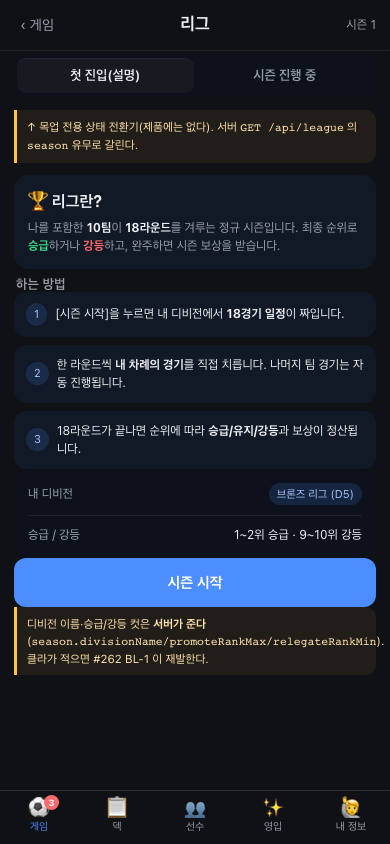
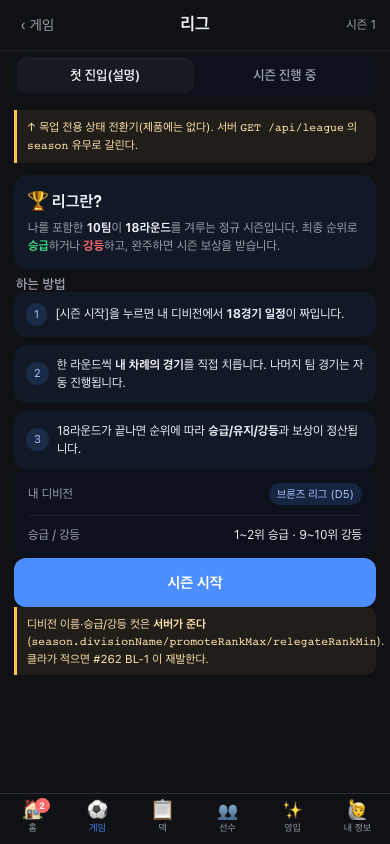
[Spider] docs(web): #286 W1 3차 — 홈을 별도 탭으로 분리 + 최대한 간결하게
hero 3차: "홈 별도로 빼야지 가장 중요하잖아. 홈화면에 게임이랑 다 널부러져있는거 이상해.
최대한 간결하게. 지금 너무 중구난방이야."

2차안의 홈은 팀 요약 + 오늘 할 일 + 경기 3카드를 한 화면에 다 넣어 "내 팀은 어떤가"와
"뭘 하러 갈까"가 섞여 있었다. 지적이 맞다.

- **내비 5탭 → 6탭**: 홈 · 게임 · 덱 · 선수 · 영입 · 내 정보.
- **홈(신설)** = 세 덩어리만 — ①내 팀 한 장(대표 카드 + 디비전/순위 · 레이팅/랭킹 · 포메이션/전력)
  ②[게임 시작] 큰 버튼 하나 ③알림 한 줄(**있을 때만**). 없으면 카드 한 장 + 버튼 하나로 끝난다.
- **게임 탭(신설)** = 모드 선택 전용. 현행 [게임 시작] 모달이 화면으로 승격되고, 홈에 널려 있던
  연습·리그·원정 카드가 통째로 이리 온다. 리그/원정 페이지의 부모.
- **덜어낸 것의 행선지를 표로 박제**했다(팀 요약→덱, 사기·컨디션→덱·내정보, 오늘 할 일→알림 한 줄).
  근거 없이 되돌리면 홈이 다시 대시보드가 된다.
- 경기 중 잠금 범위 갱신: 홈 전체 + **탭 5개 전부**.
- #245 피원정 팝업 트리거를 **게임 탭의 원정 카드**로 이관([게임 시작]은 이제 탭 이동일 뿐이라
  팝업을 걸 자리가 아니다).

⚠ 구현 중 확인(질문 아님): 탭이 6칸이고 admin 은 [운영] 포함 7칸이라 390px 에서 "내 정보"가
가장 빠듯하다. 실기기 캡처로 보고 좁으면 라벨 축약 후 보고한다.

게이트: apps/web build PASS. 제품 코드는 여전히 무변경.

Claude-Session: https://claude.ai/code/session_01YPxJHEMs28AV5xFHckaE2s

diff --git a/docs/plan-v5/mock/home-nav/after.html b/docs/plan-v5/mock/home-nav/after.html
@@ -147,6 +147,21 @@ table.tbl td.num{text-align:right;font-variant-numeric:tabular-nums}
 .pcard .dup{position:absolute;bottom:4px;right:5px;font-size:9px;background:rgba(0,0,0,.6);border-radius:5px;padding:0 4px;z-index:2}
 .g-LEGEND{color:#d0a5ff}.g-DIA{color:#7fd7ff}.g-GOLD{color:#ffcf6b}.g-SILVER{color:#c7cdd8}.g-BRONZE{color:#c99a76}
 
+/* ── 홈 히어로 (hero 3R: "최대한 간결하게") ────────────────────────────── */
+.homehero{position:relative;border-radius:18px;overflow:hidden;background:linear-gradient(160deg,#1b2740,#0e1420 70%);min-height:322px;display:flex;flex-direction:column;justify-content:flex-end}
+/* 대표 카드는 **통짜로 보이게** 둔다 — 잘리면 카드가 아니라 배경 얼룩으로 읽힌다. */
+.homehero .art{position:absolute;right:12px;top:14px;bottom:14px;width:44%;display:grid;place-items:center}
+.homehero .art img{max-height:100%;max-width:100%;object-fit:contain;border-radius:6px;filter:drop-shadow(0 10px 26px rgba(0,0,0,.65))}
+.homehero .veil{position:absolute;inset:0;background:linear-gradient(90deg,#0e1420 20%,rgba(14,20,32,.55) 46%,transparent 62%);pointer-events:none}
+.homehero .info{position:relative;padding:16px;max-width:56%}
+.homehero .team{font-size:19px;font-weight:800;line-height:1.2}
+.homehero .lines{margin-top:8px;display:flex;flex-direction:column;gap:3px}
+.homehero .lines div{font-size:11.5px;color:var(--muted);line-height:1.45}
+.homehero .lines b{color:var(--text)}
+.ctabig{display:block;width:100%;background:linear-gradient(90deg,#3f7dff,#5aa0ff);color:#fff;border-radius:16px;padding:19px;font-weight:800;font-size:18px;text-align:center;box-shadow:0 6px 20px rgba(76,141,255,.28)}
+.notifrow{display:flex;align-items:center;gap:9px;width:100%;background:var(--surface);border-radius:13px;padding:12px 13px;text-align:left}
+.notifrow .nb{width:22px;height:22px;border-radius:99px;background:var(--them);color:#fff;font-size:11px;font-weight:700;display:grid;place-items:center;flex:0 0 auto}
+
 /* ── 경기 중 잠금 (hero 2R) ────────────────────────────────────────────── */
 .lockwrap{position:relative}
 .lockwrap.locked{opacity:.32;filter:grayscale(.7);pointer-events:none;user-select:none}
@@ -195,12 +210,12 @@ table.tbl td.num{text-align:right;font-variant-numeric:tabular-nums}
 
 /* ── 하단 탭바 (5개) ───────────────────────────────────────────────────── */
 .tabbar{position:fixed;bottom:0;left:50%;transform:translateX(-50%);width:100%;max-width:390px;
-  display:grid;grid-template-columns:repeat(5,1fr);background:rgba(15,17,21,.96);
+  display:grid;grid-template-columns:repeat(6,1fr);background:rgba(15,17,21,.96);
   border-top:1px solid var(--border);backdrop-filter:blur(8px);z-index:15}
-.tabbar button{padding:7px 0 9px;display:flex;flex-direction:column;align-items:center;gap:2px;color:var(--muted);font-size:10.5px;position:relative}
-.tabbar button em{font-size:19px;font-style:normal;line-height:1}
+.tabbar button{padding:7px 0 9px;display:flex;flex-direction:column;align-items:center;gap:2px;color:var(--muted);font-size:9.5px;position:relative;white-space:nowrap}
+.tabbar button em{font-size:18px;font-style:normal;line-height:1}
 .tabbar button.on{color:var(--us)}
-.tabbar button i{position:absolute;top:4px;right:calc(50% - 20px);min-width:15px;height:15px;padding:0 3px;border-radius:99px;background:var(--them);color:#fff;font-size:9px;font-style:normal;display:grid;place-items:center;font-weight:700}
+.tabbar button i{position:absolute;top:4px;right:calc(50% - 17px);min-width:15px;height:15px;padding:0 3px;border-radius:99px;background:var(--them);color:#fff;font-size:9px;font-style:normal;display:grid;place-items:center;font-weight:700}
 
 /* 주석 말풍선 — 목업 위 설계 의도 표시(보드에서 토글) */
 .note{border-left:3px solid var(--warn);background:rgba(255,194,75,.08);border-radius:0 10px 10px 0;padding:8px 10px;font-size:11.5px;color:#ffe3ac}
@@ -210,7 +225,7 @@ body.nonotes .note{display:none}
 <body>
 <div class="app">
 
-<!-- ══════════════════════ 1. 게임 (홈) ══════════════════════ -->
+<!-- ══════════════════════ 1. 홈 ══════════════════════ -->
 <section class="screen" id="s-home">
   <div class="topbar">
     <div class="idrow">
@@ -225,12 +240,68 @@ body.nonotes .note{display:none}
       <button class="on" onclick="homeState('free',this)">평상시</button>
       <button onclick="homeState('lock',this)">🔒 경기 진행 중</button>
     </div>
+    <div class="note"><b>홈은 3개만 있다</b>(hero 3R: "최대한 간결하게") — <b>내 팀 한 장 · [게임 시작] 하나 · 알림 한 줄</b>.
+      경기 모드·덱 요약·오늘 할 일은 전부 자기 탭으로 보냈다. 홈은 <b>"내 팀이 어떤 팀인지"</b>와 <b>"들어가자"</b>만 말한다.</div>
+
+    <!-- 경기 중이면 홈 전체가 이것 하나로 대체된다 -->
+    <div id="home-lock" style="display:none">
+      <div class="lockbanner">
+        <div class="row" style="gap:9px">
+          <div class="mico" style="width:38px;height:38px;border-radius:11px;background:rgba(0,0,0,.35);display:grid;place-items:center;font-size:19px">⏸</div>
+          <div style="flex:1">
+            <h3>경기 진행 중</h3>
+            <div class="tiny" style="color:#ffdc9a">전반 종료 · 하프타임 지시 대기 · 봇 T3 (1 : 1)</div>
+          </div>
+        </div>
+        <div class="lockrow">
+          <button class="cta" style="flex:1.6">이어하기</button>
+          <button class="cta ghost" style="flex:1">경기 포기</button>
+        </div>
+        <div class="tiny" style="color:#ffdc9a;margin-top:10px">⚠ 경기를 끝내거나 포기해야 다른 메뉴를 쓸 수 있습니다.</div>
+      </div>
+      <div class="note tiny" style="margin-top:10px"><b>hero 2R</b> — 경기 중엔 홈이 통째로 이 카드가 되고 <b>하단 탭 5개가 전부 잠긴다</b>. 이어하거나 포기하는 것 말고 할 수 있는 게 없다.</div>
+    </div>
+
+    <div id="home-main" class="lockwrap">
+      <div class="homehero">
+        <div class="art"><img src="assets/card-aura.png" alt=""></div>
+        <div class="veil"></div>
+        <div class="info">
+          <div class="team">감독 박의 팀</div>
+          <div class="lines">
+            <div><b>브론즈 리그 D5</b> · 리그 4위 / 10팀</div>
+            <div>원정 레이팅 <b>1180</b> · 랭킹 12위</div>
+            <div>4-3-3 · 전력 <b>1,842</b></div>
+          </div>
+        </div>
+      </div>
+
+      <button class="ctabig" onclick="go('game')">게임 시작</button>
+
+      <button class="notifrow" onclick="alert('알림 센터')">
+        <span class="nb">2</span>
+        <span class="sm" style="flex:1">새 소식 2건 — 원정 피침공 · 트레이드 공개</span>
+        <span class="tiny muted">›</span>
+      </button>
+      <div class="note tiny">알림 줄은 <b>있을 때만</b> 나온다. 없으면 홈은 카드 한 장 + 버튼 하나로 끝난다.</div>
+    </div>
+  </div>
+</section>
+
+<!-- ══════════════════════ 2. 게임 (모드 선택) ══════════════════════ -->
+<section class="screen" id="s-game">
+  <div class="phead"><span class="back"></span><h1>게임</h1><span class="rightslot">오늘 4/5</span></div>
+  <div class="body">
+    <div class="seg" style="margin-bottom:2px">
+      <button class="on" onclick="gameState('free',this)">평상시</button>
+      <button onclick="gameState('lock',this)">🔒 경기 진행 중</button>
+    </div>
     <div class="note tiny">↑ 목업 전용 상태 전환기(제품에는 없다). 서버 <code>GET /api/me/active-match</code> 의 <code>locked</code> 로 갈린다.</div>
 
-    <div class="note"><b>이 화면이 홈이다</b> — [게임] 탭 = 홈. 현행의 [게임 시작] 모달을 없애고 <b>연습·리그·원정</b>을 홈에 1급으로 올렸다. 덱/상점/도감 버튼은 하단 탭이 이미 하는 일이라 제거.</div>
+    <div class="note"><b>게임 탭 = 모드 선택 하나만 한다</b>(hero 2R). 홈에 경기 카드가 널려 있던 걸 여기로 옮겼다 — 홈은 홈, 경기는 경기. 현행 [게임 시작] 모달은 없어지고 이 화면이 그 자리를 대신한다.</div>
 
     <!-- 경기 진행 중 = 잠금 배너 (hero 2R) -->
-    <div id="home-lock" style="display:none">
+    <div id="game-lock" style="display:none">
       <div class="lockbanner">
         <div class="row" style="gap:9px">
           <div class="mico" style="width:38px;height:38px;border-radius:11px;background:rgba(0,0,0,.35);display:grid;place-items:center;font-size:19px">⏸</div>
@@ -248,34 +319,7 @@ body.nonotes .note{display:none}
       <div class="note tiny" style="margin-top:10px"><b>hero 2R 반영</b> — 경기 중에는 <b>아래 전부 + 하단 탭 4개</b>가 잠긴다(회색·클릭 불가·자물쇠). 현행 <code>MatchLockGate</code>(#217)는 <b>다른 라우트로 가면 되돌리는</b> 방식이라 화면은 멀쩡히 보이고 눌린 뒤에야 튕겼다 — 강화·덱 편집이 경기 중에 들어가 <b>버그가 생길 창</b>이 그 사이에 있었다. 이제 <b>누를 수 없게</b> 막는다.</div>
     </div>
 
-    <div id="home-main" class="lockwrap">
-      <h2 class="sec">내 팀</h2>
-      <button class="card" style="width:100%;text-align:left" onclick="go('deck')">
-        <div class="between">
-          <div><b style="font-size:15px">4-3-3</b> <span class="badge">선발 11/11</span> <span class="badge">벤치 5/7</span>
-            <div class="tiny muted" style="margin-top:2px">지시 8/11 작성 · 미작성 3명</div></div>
-          <span class="go" style="color:var(--muted)">›</span>
-        </div>
-        <div class="between tiny muted" style="margin-top:9px"><span>팀 전력</span><span><b style="color:var(--text)">1,842</b> · 상대 미정</span></div>
-        <div class="bar" style="margin-top:4px"><i style="width:68%"></i></div>
-      </button>
-
-      <div class="strip">
-        <div><b style="color:var(--ok)">보통</b><span>팀 사기</span></div>
-        <div><b>82</b><span>평균 컨디션</span></div>
-        <div><b style="color:var(--warn)">2연승</b><span>원정 연승</span></div>
-      </div>
-
-      <h2 class="sec">오늘</h2>
-      <div class="list">
-        <button class="item between" style="width:100%;text-align:left" onclick="go('away')">
-          <span class="sm"><b>원정</b> 4회 남음 · <span style="color:var(--them)">복수 가능 2건</span></span><span class="tiny muted">›</span>
-        </button>
-        <button class="item between" style="width:100%;text-align:left" onclick="go('recruit')">
-          <span class="sm"><b>트레이드</b> 제안 1건 공개됨</span><span class="tiny muted">›</span>
-        </button>
-      </div>
-
+    <div id="game-main" class="lockwrap">
       <h2 class="sec">경기</h2>
 
       <button class="mode league" onclick="go('league')">
@@ -311,7 +355,7 @@ body.nonotes .note{display:none}
 
 <!-- ══════════════════════ 1-1. 리그 페이지 ══════════════════════ -->
 <section class="screen" id="s-league">
-  <div class="phead"><button class="back" onclick="go('home')">‹ 게임</button><h1>리그</h1><span class="rightslot">시즌 1</span></div>
+  <div class="phead"><button class="back" onclick="go('game')">‹ 게임</button><h1>리그</h1><span class="rightslot">시즌 1</span></div>
   <div class="body">
     <div class="seg" style="margin-bottom:2px">
       <button class="on" onclick="lgState('intro',this)">첫 진입(설명)</button>
@@ -399,7 +443,7 @@ body.nonotes .note{display:none}
 
 <!-- ══════════════════════ 1-2. 원정 페이지 ══════════════════════ -->
 <section class="screen" id="s-away">
-  <div class="phead"><button class="back" onclick="go('home')">‹ 게임</button><h1>원정</h1><span class="rightslot">3주차</span></div>
+  <div class="phead"><button class="back" onclick="go('game')">‹ 게임</button><h1>원정</h1><span class="rightslot">3주차</span></div>
   <div class="body">
 
     <div class="card">
@@ -742,7 +786,8 @@ body.nonotes .note{display:none}
 
 <!-- ══════════════════════ 탭바 ══════════════════════ -->
 <nav class="tabbar">
-  <button data-tab="home" class="on" onclick="go('home')"><em>⚽</em>게임<i>3</i></button>
+  <button data-tab="home" class="on" onclick="go('home')"><em>🏠</em>홈<i>2</i></button>
+  <button data-tab="game" onclick="go('game')"><em>⚽</em>게임</button>
   <button data-tab="deck" onclick="go('deck')"><em>📋</em>덱</button>
   <button data-tab="players" onclick="go('players')"><em>👥</em>선수</button>
   <button data-tab="recruit" onclick="go('recruit')"><em>✨</em>영입</button>
@@ -820,8 +865,9 @@ body.nonotes .note{display:none}
 </div>
 
 <script>
-const SCREENS=["home","league","away","deck","players","recruit","me"];
-const TAB_OF={home:"home",league:"home",away:"home",deck:"deck",players:"players",recruit:"recruit",me:"me"};
+const SCREENS=["home","game","league","away","deck","players","recruit","me"];
+// 리그·원정은 [게임] 탭의 하위 페이지다 — 탭 활성 표시는 게임에 남는다.
+const TAB_OF={home:"home",game:"game",league:"game",away:"game",deck:"deck",players:"players",recruit:"recruit",me:"me"};
 
 function go(s){
   SCREENS.forEach(k=>document.getElementById("s-"+k).classList.toggle("on",k===s));
@@ -833,12 +879,19 @@ function go(s){
 function openSheet(id){document.getElementById("scrim").classList.add("on");document.getElementById(id).classList.add("on");}
 function closeSheets(){document.getElementById("scrim").classList.remove("on");document.querySelectorAll(".sheet").forEach(s=>s.classList.remove("on"));}
 
-/* 경기 진행 중 잠금 (hero 2R) — 홈은 배너만 남기고 전부 잠그고, 탭 4개도 잠근다. */
+/* 경기 진행 중 잠금 (hero 2R) — 홈은 배너만 남기고, 하단 탭은 홈 외 전부 잠근다. */
 function homeState(k,btn){
   const lock = k==="lock";
   document.querySelectorAll("#s-home .seg button").forEach(b=>b.classList.remove("on"));btn.classList.add("on");
   document.getElementById("home-lock").style.display = lock?"":"none";
   document.getElementById("home-main").classList.toggle("locked",lock);
+  document.querySelectorAll(".tabbar button").forEach(b=>b.classList.toggle("tlock", lock && b.dataset.tab!=="home"));
+}
+function gameState(k,btn){
+  const lock = k==="lock";
+  document.querySelectorAll("#s-game .seg button").forEach(b=>b.classList.remove("on"));btn.classList.add("on");
+  document.getElementById("game-lock").style.display = lock?"":"none";
+  document.getElementById("game-main").classList.toggle("locked",lock);
   document.querySelectorAll(".tabbar button").forEach(b=>b.classList.toggle("tlock", lock && b.dataset.tab!=="home"));
 }
 /* 덱 — 경기 중이면 강화 줄만 잠근다(배치·프롬프트는 하프타임 지시라 계속 써야 한다). */
@@ -913,7 +966,7 @@ if(q.get("notes")==="0")document.body.classList.add("nonotes");
 go(SCREENS.includes(q.get("screen"))?q.get("screen"):"home");
 if(q.get("sub")==="run")lgState("run",document.querySelectorAll("#s-league .seg button")[1]);
 if(q.get("sub")==="lock"){
-  homeState("lock",document.querySelectorAll("#s-home .seg button")[1]);
+  homeState("lock",document.querySelectorAll("#s-game .seg button")[1]);
   deckState("lock",document.querySelectorAll("#s-deck .seg button")[1]);
 }
 if(q.get("sub")==="trade")recruitMode("trade",document.querySelectorAll("#s-recruit .seg button")[1]);
